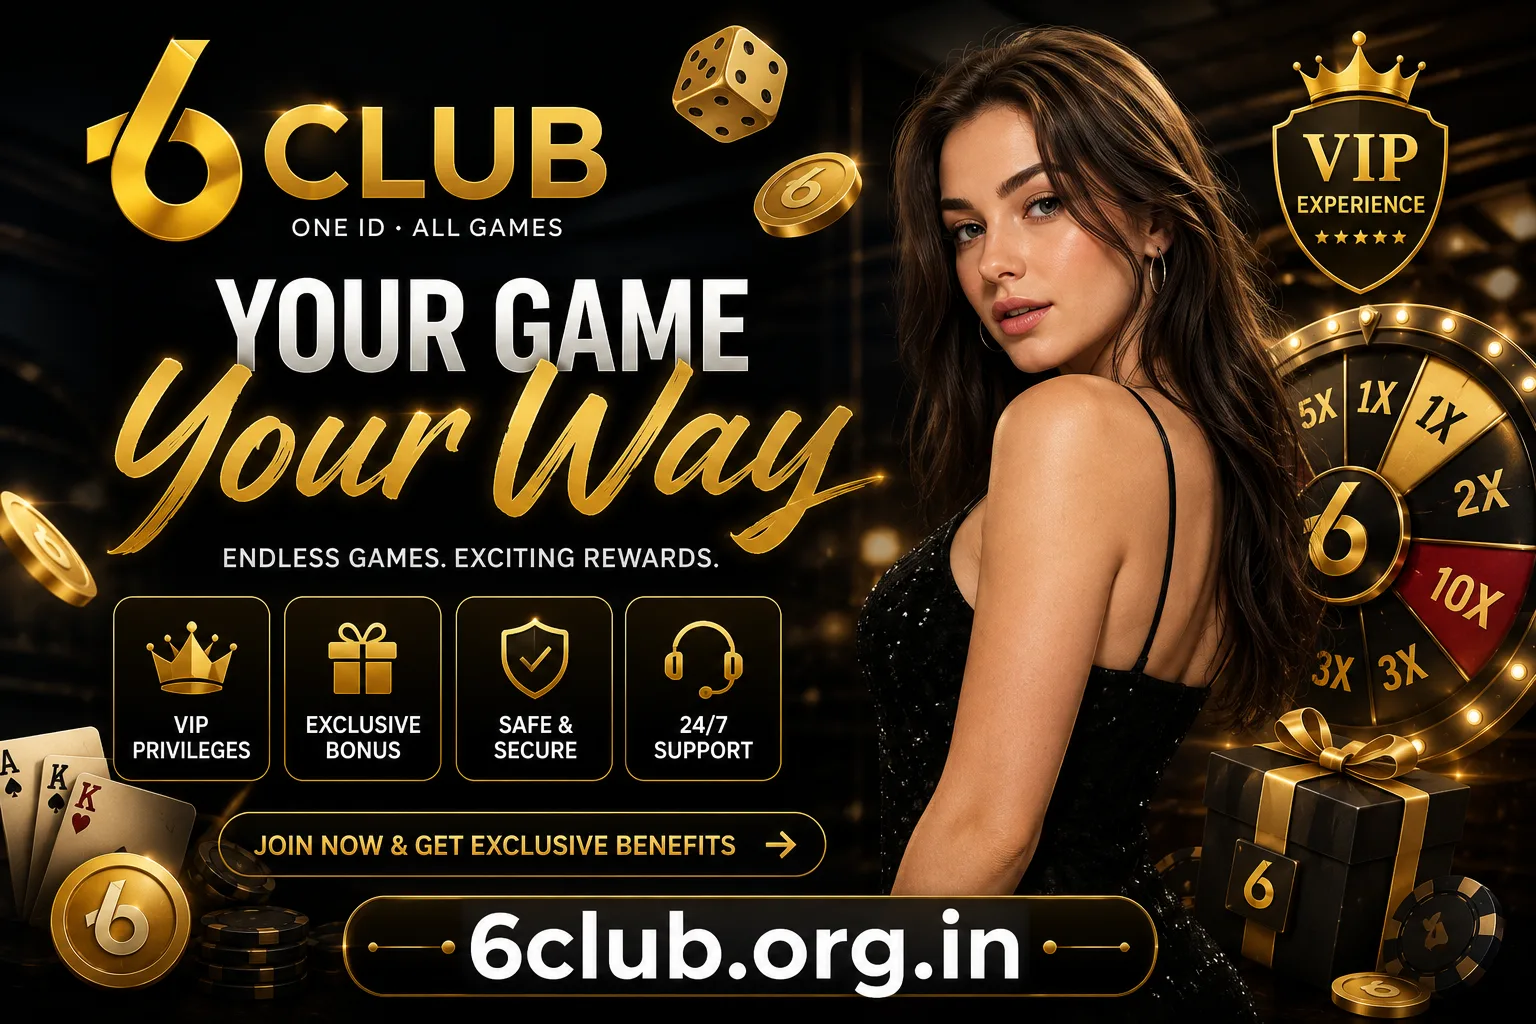
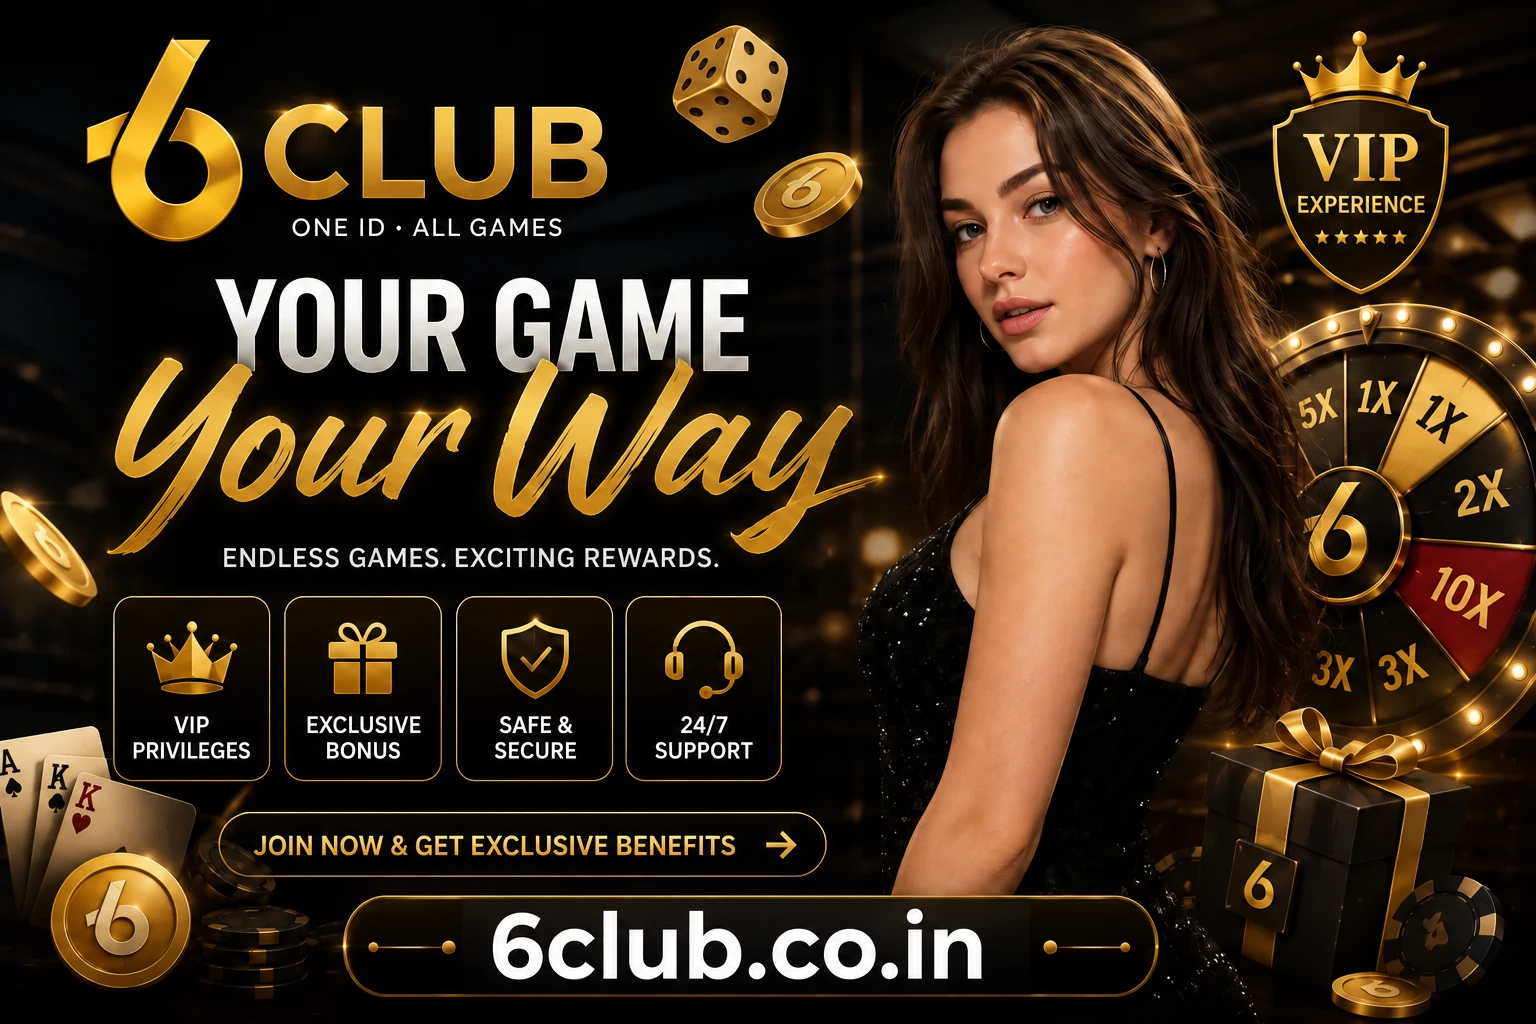
Update site domain and sitemap metadata

diff --git a/app/sitemap.ts b/app/sitemap.ts
@@ -1,22 +1,29 @@
 import type { MetadataRoute } from 'next';
 import { siteConfig } from '@/lib/site.config';
-import pagesData from '@/data/pages.data';
+import pagesData, { defaultLastUpdatedISO } from '@/data/pages.data';
 import * as blog from '@/data/blog.data';
 
+function latestPostDate(posts: { date: string; dateModified?: string }[]) {
+  return posts.reduce((latest, post) => {
+    const modified = post.dateModified || post.date;
+    return modified > latest ? modified : latest;
+  }, defaultLastUpdatedISO);
+}
+
 export default function sitemap(): MetadataRoute.Sitemap {
-  const today = new Date().toISOString().slice(0, 10);
+  const posts = blog.getAllPosts();
 
   return [
-    { url: `${siteConfig.siteUrl}/`, lastModified: today, changeFrequency: 'daily', priority: 1.0 },
-    { url: `${siteConfig.siteUrl}/blog`, lastModified: today, changeFrequency: 'daily', priority: 0.9 },
-    { url: `${siteConfig.siteUrl}/sister-sites`, lastModified: today, changeFrequency: 'monthly', priority: 0.3 },
+    { url: `${siteConfig.siteUrl}/`, lastModified: defaultLastUpdatedISO, changeFrequency: 'weekly', priority: 1.0 },
+    { url: `${siteConfig.siteUrl}/blog`, lastModified: latestPostDate(posts), changeFrequency: 'weekly', priority: 0.9 },
+    { url: `${siteConfig.siteUrl}/sister-sites`, lastModified: defaultLastUpdatedISO, changeFrequency: 'monthly', priority: 0.3 },
     ...Object.keys(pagesData).map((slug) => ({
       url: `${siteConfig.siteUrl}${slug}`,
-      lastModified: today,
+      lastModified: pagesData[slug].lastUpdatedISO || defaultLastUpdatedISO,
       changeFrequency: 'weekly' as const,
       priority: 0.8
     })),
-    ...blog.getAllPosts().map((post) => ({
+    ...posts.map((post) => ({
       url: `${siteConfig.siteUrl}/blog/${post.slug}`,
       lastModified: post.dateModified || post.date,
       changeFrequency: 'monthly' as const,
@@ -24,19 +31,19 @@ export default function sitemap(): MetadataRoute.Sitemap {
     })),
     ...blog.categories.map((cat) => ({
       url: `${siteConfig.siteUrl}/blog/category/${cat.slug}`,
-      lastModified: today,
+      lastModified: latestPostDate(blog.getPostsByCategory(cat.slug)),
       changeFrequency: 'weekly' as const,
       priority: 0.5
     })),
     ...blog.getAllTags().map((tag) => ({
       url: `${siteConfig.siteUrl}/blog/tag/${tag.slug}`,
-      lastModified: today,
+      lastModified: latestPostDate(blog.getPostsByTag(tag.slug)),
       changeFrequency: 'weekly' as const,
       priority: 0.4
     })),
     ...blog.authors.map((author) => ({
       url: `${siteConfig.siteUrl}/blog/author/${author.slug}`,
-      lastModified: today,
+      lastModified: latestPostDate(blog.getPostsByAuthor(author.slug)),
       changeFrequency: 'monthly' as const,
       priority: 0.4
     }))

diff --git a/app/sitemap/page.tsx b/app/sitemap/page.tsx
@@ -73,11 +73,21 @@ export default function SiteMapPage() {
     { label: 'Support & Legal', links: navData.footer.support.concat(navData.footer.legal) },
     {
       label: 'Blog',
-      links: [{ label: 'All Articles', url: '/blog' }].concat(
-        blog.categories.map((c) => ({ label: `Category: ${c.name}`, url: `/blog/category/${c.slug}` }))
-      )
+      links: [
+        { label: 'All Articles', url: '/blog' },
+        ...blog.categories.map((c) => ({ label: `Category: ${c.name}`, url: `/blog/category/${c.slug}` })),
+        ...blog.authors.map((author) => ({ label: `Articles by ${author.name}`, url: `/blog/author/${author.slug}` })),
+        ...blog.getAllTags().map((tag) => ({ label: `Tag: ${tag.name}`, url: `/blog/tag/${tag.slug}` })),
+        ...blog.getAllPosts().map((post) => ({ label: post.title, url: `/blog/${post.slug}` }))
+      ]
     }
   ];
+
+  const listedUrls = new Set(groups.flatMap((group) => group.links.map((link) => link.url)));
+  const unlistedPages = Object.entries(pagesData)
+    .filter(([url]) => !listedUrls.has(url))
+    .map(([url, entry]) => ({ label: entry.h1, url }));
+  if (unlistedPages.length > 0) groups.push({ label: 'More Guides', links: unlistedPages });
 
   const tocHeadings = groups.map((group, i) => ({ id: `group-${i}`, label: group.label }));
   const tocFaqs = (page.faqs || []).map((faq, i) => ({ id: `faq-item-${i}`, label: faq.q }));

diff --git a/lib/site.config.ts b/lib/site.config.ts
@@ -1,6 +1,6 @@
 export const siteConfig = {
   siteName: process.env.SITE_NAME || '6 Club',
-  siteUrl: (process.env.SITE_URL || 'https://6club.org.in').replace(/\/$/, ''),
+  siteUrl: (process.env.SITE_URL || 'https://6club.co.in').replace(/\/$/, ''),
   tagline: 'One ID. All Games.',
   defaultDescription:
     '6 Club gives players across India instant access to live casino tables, slot reels, lottery draws, sports markets and crash games, with same-day withdrawals, verified fair-play odds and a rewards ladder that pays back every session.',
@@ -17,7 +17,7 @@ export const siteConfig = {
   locale: 'en_US',
   foundingYear: 2021,
   registerUrl: 'https://bdgwin98.com/#/register?invitationCode=136448806011',
-  googleSiteVerification: 'wVWdHRlXfEvgqVx2FV9f_WEA5p_R7DCnhAso8LJA5Ac'
+  googleSiteVerification: 'qo7B3RxuBFGYHVClrsKFb5Mkn7osxL2FR0AX54yeUcw'
 };
 
 export type SiteConfig = typeof siteConfig;
